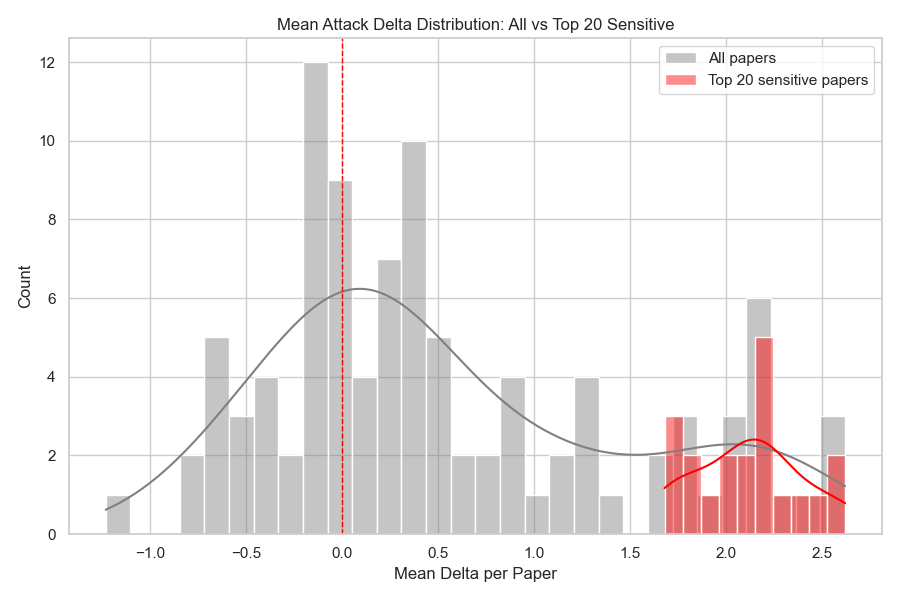
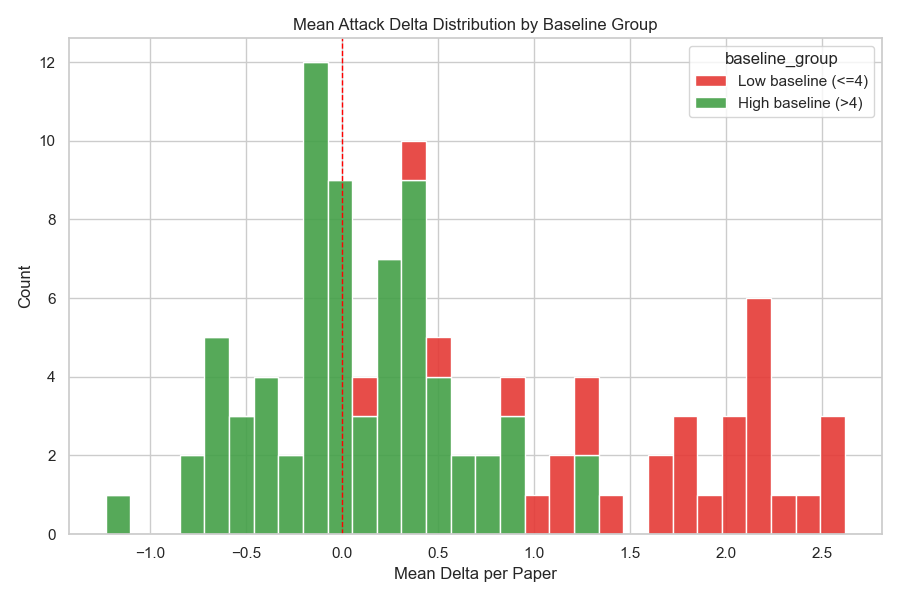
update per-paper mean delta histogram: split by baseline score group with stacked coloring; revise plot explanation docs accordingly

diff --git a/scripts/advanced_attack_analysis_and_plot.py b/scripts/advanced_attack_analysis_and_plot.py
@@ -476,17 +476,32 @@ def plot_charts(base_df: pd.DataFrame, attack_df: pd.DataFrame, outdir: Path) ->
     plt.savefig(outdir / "scatter_baseline_vs_delta.png")
     plt.close()
 
-    # 11. Per-paper mean delta histogram with Top20 overlay for comparison
-    per_paper = attack_df.groupby("base_paper_id")["rating_delta"].mean()
-    top20_per_paper = per_paper.nlargest(20)
+    # 11. Per-paper mean delta histogram split by baseline score group
+    per_paper = (
+        attack_df.groupby("base_paper_id")
+        .agg(mean_delta=("rating_delta", "mean"), base_rating=("base_rating", "first"))
+        .reset_index()
+    )
+    per_paper["baseline_group"] = np.where(
+        per_paper["base_rating"] <= 4,
+        "Low baseline (<=4)",
+        "High baseline (>4)",
+    )
     plt.figure(figsize=(9, 6))
-    sns.histplot(per_paper, bins=30, kde=True, color="gray", alpha=0.45, label="All papers")
-    sns.histplot(top20_per_paper, bins=10, kde=True, color="red", alpha=0.45, label="Top 20 sensitive papers")
+    sns.histplot(
+        data=per_paper,
+        x="mean_delta",
+        hue="baseline_group",
+        hue_order=["Low baseline (<=4)", "High baseline (>4)"],
+        bins=30,
+        multiple="stack",
+        alpha=0.9,
+        palette={"Low baseline (<=4)": "#e53935", "High baseline (>4)": "#43a047"},
+    )
     plt.axvline(0, color="red", linestyle="--", linewidth=1)
-    plt.title("Mean Attack Delta Distribution: All vs Top 20 Sensitive")
+    plt.title("Mean Attack Delta Distribution by Baseline Group")
     plt.xlabel("Mean Delta per Paper")
     plt.ylabel("Count")
-    plt.legend()
     plt.tight_layout()
     plt.savefig(outdir / "hist_mean_delta_per_paper.png")
     plt.close()
@@ -591,8 +606,8 @@ def write_plot_explanation_doc(input_file: Path, base_df: pd.DataFrame, attack_d
         "计算逻辑: `groupby(attack_position)['accept'].mean()`。",
         "16. `scatter_baseline_vs_delta.png`: baseline 分数与分数变化散点图（按 attack_type 着色）。",
         "计算逻辑: 每条攻击样本一个点，x=base_rating, y=rating_delta。",
-        "17. `hist_mean_delta_per_paper.png`: 每篇论文平均攻击效应分布直方图。",
-        "计算逻辑: 先按 `base_paper_id` 求 mean(rating_delta)，再直方图 + KDE。",
+        "17. `hist_mean_delta_per_paper.png`: 每篇论文平均攻击效应分布直方图（按 baseline 分组着色）。",
+        "计算逻辑: 先按 `base_paper_id` 求 mean(rating_delta) 与 base_rating，再按 `base_rating<=4`(红) / `>4`(绿) 叠加直方图 + KDE。",
         "18. `heatmap_count_type_position.png`: 类型×位置样本数热力图（检查数据平衡性）。",
         "计算逻辑: `pivot_table(..., values=base_paper_id, aggfunc=count)`。",
         "19. `box_rating_delta_section_found.png`（若存在）: 章节命中与未命中时的 `rating_delta` 对比。",

diff --git a/analysis_output/attack_visual_only_test/PLOT_EXPLANATION_CN.md b/analysis_output/attack_visual_only_test/PLOT_EXPLANATION_CN.md
@@ -46,8 +46,8 @@
 计算逻辑: `groupby(attack_position)['accept'].mean()`。
 16. `scatter_baseline_vs_delta.png`: baseline 分数与分数变化散点图（按 attack_type 着色）。
 计算逻辑: 每条攻击样本一个点，x=base_rating, y=rating_delta。
-17. `hist_mean_delta_per_paper.png`: 每篇论文平均攻击效应分布直方图。
-计算逻辑: 先按 `base_paper_id` 求 mean(rating_delta)，再直方图 + KDE。
+17. `hist_mean_delta_per_paper.png`: 每篇论文平均攻击效应分布直方图（按 baseline 分组着色）。
+计算逻辑: 先按 `base_paper_id` 求 mean(rating_delta) 与 base_rating，再按 `base_rating<=4`(红) / `>4`(绿) 叠加直方图 + KDE。
 18. `heatmap_count_type_position.png`: 类型×位置样本数热力图（检查数据平衡性）。
 计算逻辑: `pivot_table(..., values=base_paper_id, aggfunc=count)`。
 19. `box_rating_delta_section_found.png`（若存在）: 章节命中与未命中时的 `rating_delta` 对比。
